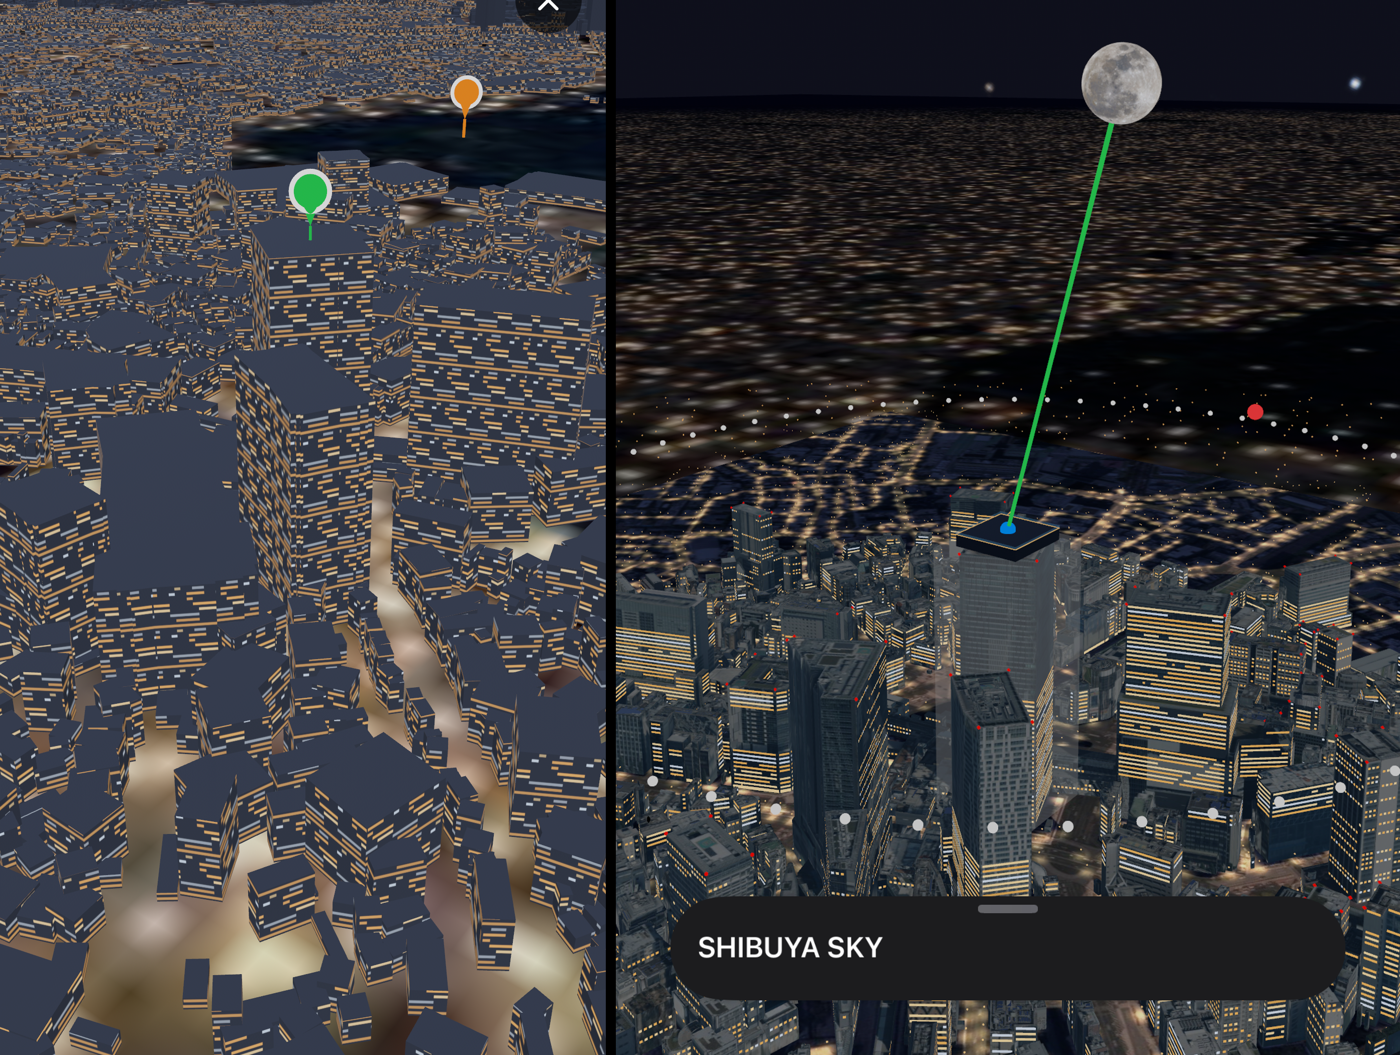
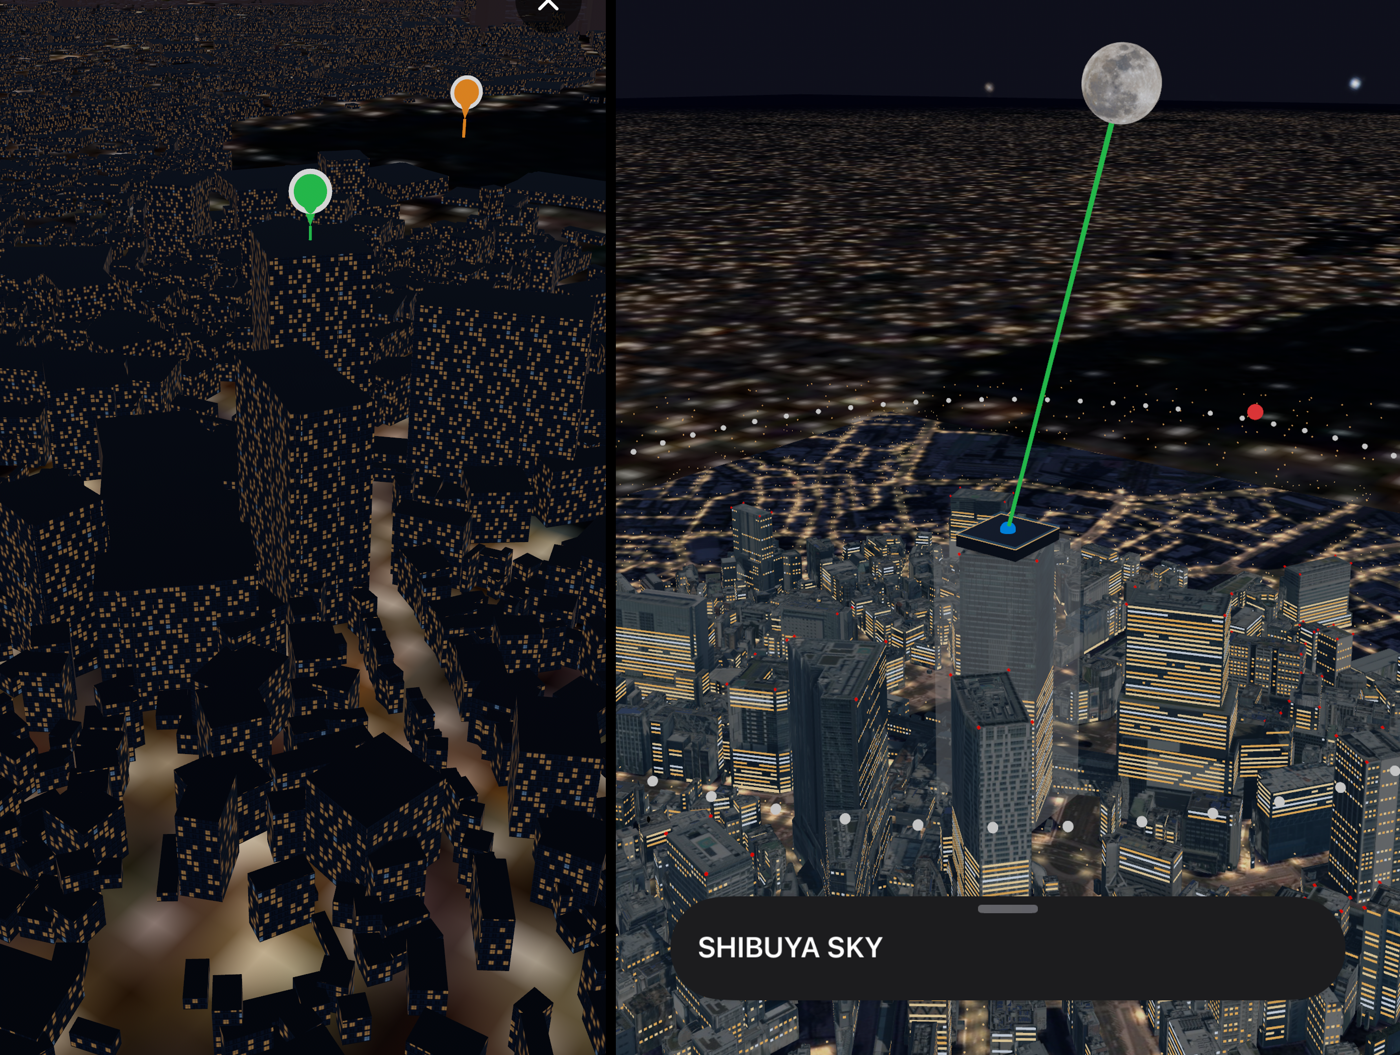
o-9 広域3Dの建物に詳細画面と同じ外壁と窓の材質を使い、照明と地面を詳細画面にそろえる

diff --git a/App/Views/WideCityRenderer.swift b/App/Views/WideCityRenderer.swift
@@ -75,52 +75,38 @@ final class WideCityRenderer {
         return loaded
     }
 
-    /// 詳細画面の夜の建物（BuildingNightStyle）と同じ外壁と窓明かり。窓明かりは WideWindowTexture を自分で光る色として繰り返し貼る
-    /// （壁の UV がある箱だけに使う）
+    /// 詳細画面の夜の建物（BuildingNightRenderer）と同じ材質。外壁と窓の画像は BuildingFacade が作る（同じコード・同じ見た目）。
+    /// 箱の UV は BuildingFacade の窓 8 列 × 8 階（28.8m × 31.2m）で 1 枚になるよう、wide_ward_blender.py で付けてある
     private func nightMaterial() async -> PhysicallyBasedMaterial {
         if let material { return material }
-        let made = await Self.makeNightMaterial()
+        var made = BuildingNightRenderer.shared.facade(Self.facade)
+        // 箱の面の向きがそろっていないことがあるので、裏からも描く
+        made.faceCulling = .none
         material = made
         return made
     }
 
-    private static func makeNightMaterial() async -> PhysicallyBasedMaterial {
-        guard let windows = await windowsTexture() else { return plainMaterial }
-        var material = plainMaterial
-        // 色の定数を渡すと壁全面がその色に光る（CityModelRenderer の 8-06 と同じ）ので、画像だけを渡す
-        material.emissiveColor = .init(texture: windows)
-        material.emissiveIntensity = BuildingNightStyle.windowGlowIntensity
-        return material
-    }
+    /// 広域で使う外壁の種類（BuildingFacade のオフィス・商業以外の標準の外壁）
+    private static let facade = BuildingFacade(style: .neutral, variant: 0)
 
-    /// 外壁と、照明の向きに関係なく形が読めるだけのわずかな自己発光
+    /// UV の無い形（作り直していない区と LOD2）の材質。窓の画像は貼れないので、BuildingNightRenderer の外壁の色
+    /// （BuildingFacade の外壁 × BuildingNightRenderer の夜の色 0.55, 0.64, 0.75）と、窓明かりを平均したくらいの弱い暖色の光にする
     private static var plainMaterial: PhysicallyBasedMaterial {
         var material = PhysicallyBasedMaterial()
-        material.baseColor = .init(tint: BuildingNightStyle.wall)
+        let wall = UIColor(cgColor: facade.wall)
+        var r: CGFloat = 0, g: CGFloat = 0, b: CGFloat = 0
+        wall.getRed(&r, green: &g, blue: &b, alpha: nil)
+        material.baseColor = .init(tint: UIColor(red: r * 0.55, green: g * 0.64, blue: b * 0.75, alpha: 1))
         material.roughness = .init(floatLiteral: 0.85)
         material.metallic = .init(floatLiteral: 0)
-        material.emissiveColor = .init(color: BuildingNightStyle.wallGlow)
-        material.emissiveIntensity = BuildingNightStyle.wallGlowIntensity
+        material.emissiveColor = .init(color: UIColor(red: 0.68, green: 0.47, blue: 0.23, alpha: 1))
+        material.emissiveIntensity = plainGlow
         material.faceCulling = .none
         return material
     }
 
-    private static func windowsTexture() async -> MaterialParameters.Texture? {
-        guard let image = WideWindowTexture.image(),
-              let resource = try? await TextureResource(image: image,
-                                                         options: .init(semantic: .color, mipmapsMode: .allocateAndGenerateAll))
-        else { return nil }
-        var sampler = MaterialParameters.Texture.Sampler()
-        sampler.modify { descriptor in
-            descriptor.sAddressMode = .repeat
-            descriptor.tAddressMode = .repeat
-            descriptor.minFilter = .linear
-            descriptor.magFilter = .linear
-            descriptor.mipFilter = .linear
-            descriptor.maxAnisotropy = 8
-        }
-        return .init(resource, sampler: sampler)
-    }
+    /// 点いている窓（約 24%）× 窓の面積（約半分）× 窓の光る強さ 0.55 くらい
+    private static let plainGlow: Float = 0.06
 
     static func models(in entity: Entity) -> [ModelEntity] {
         let own: [ModelEntity] = (entity as? ModelEntity).map { [$0] } ?? []

diff --git a/App/Views/WideCityView.swift b/App/Views/WideCityView.swift
@@ -243,12 +243,12 @@ struct WideCityView: View {
 
     private static func addLights(to root: Entity) {
         let sun = DirectionalLight()
-        sun.light.intensity = 1_500
+        sun.light.intensity = 700
         sun.light.color = .init(red: 0.77, green: 0.85, blue: 1, alpha: 1)
         sun.look(at: .zero, from: [3, 6, 4], relativeTo: nil)
         root.addChild(sun)
         let fill = DirectionalLight()
-        fill.light.intensity = 700
+        fill.light.intensity = 220
         fill.light.color = .init(red: 0.66, green: 0.76, blue: 1, alpha: 1)
         fill.look(at: .zero, from: [-4, 3, -3], relativeTo: nil)
         root.addChild(fill)

diff --git a/App/Views/BuildingNightRenderer.swift b/App/Views/BuildingNightRenderer.swift
@@ -56,7 +56,8 @@ final class BuildingNightRenderer {
         }
     }
 
-    private func facade(_ appearance: BuildingFacade) -> PhysicallyBasedMaterial {
+    /// 外壁と窓の材質（同じ種類は使い回す）。ホームの広域 3D（WideCityRenderer）も同じものを使う
+    func facade(_ appearance: BuildingFacade) -> PhysicallyBasedMaterial {
         let key = appearance.style.rawValue * 4 + appearance.variant
         if let cached = facades[key] { return cached }
         var material = PhysicallyBasedMaterial()

diff --git a/scripts/wide_ward_blender.py b/scripts/wide_ward_blender.py
@@ -25,7 +25,7 @@ MIN_FOOTPRINT = 25.0    # [m²]
 MIN_HEIGHT = 5.0        # [m]
 # 1 区あたりの建物の上限。越えたときは「高さ × 床の大きさ」が小さい順に落とす。
 MAX_BUILDINGS = 15_000
-# 壁の窓明かりのタイル画像（アプリの WideWindowTexture。窓 8 列 × 8 階）1 枚が覆う大きさ [m]。
+# 壁の窓明かりのタイル画像（アプリの BuildingFacade の外壁と窓。窓 8 列 × 8 階）1 枚が覆う大きさ [m]。
 # 窓 1 マスは BuildingFacade と同じ横 3.6m・縦 3.9m。側面の UV はこの長さで割って繰り返す。
 TILE_WIDTH = 8 * 3.6
 TILE_HEIGHT = 8 * 3.9
